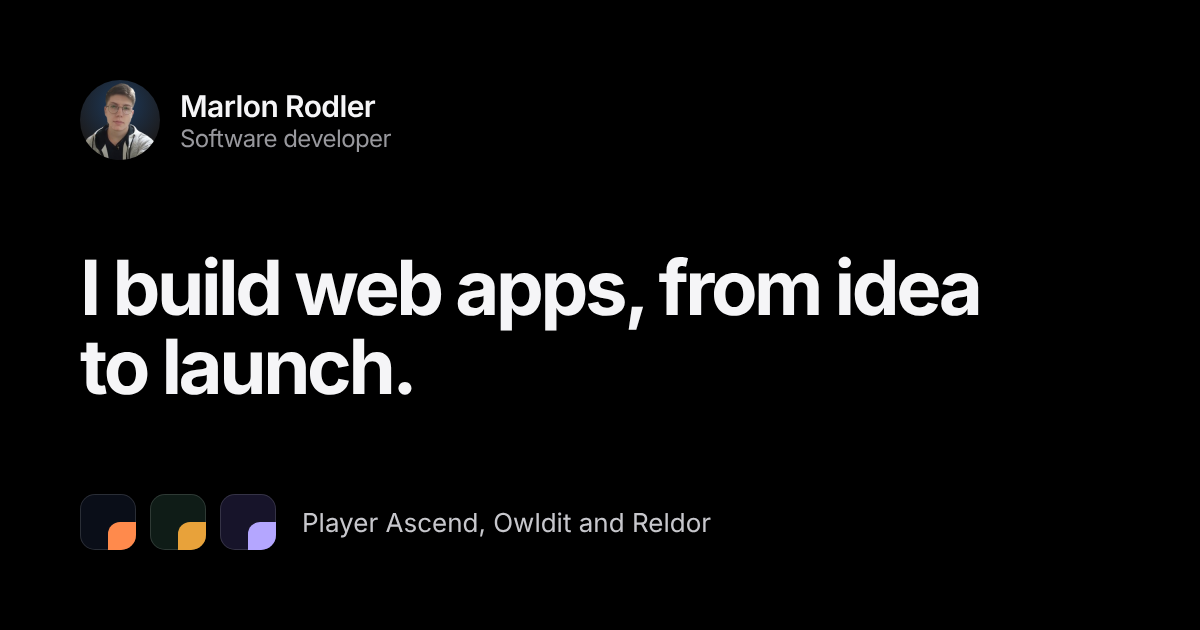
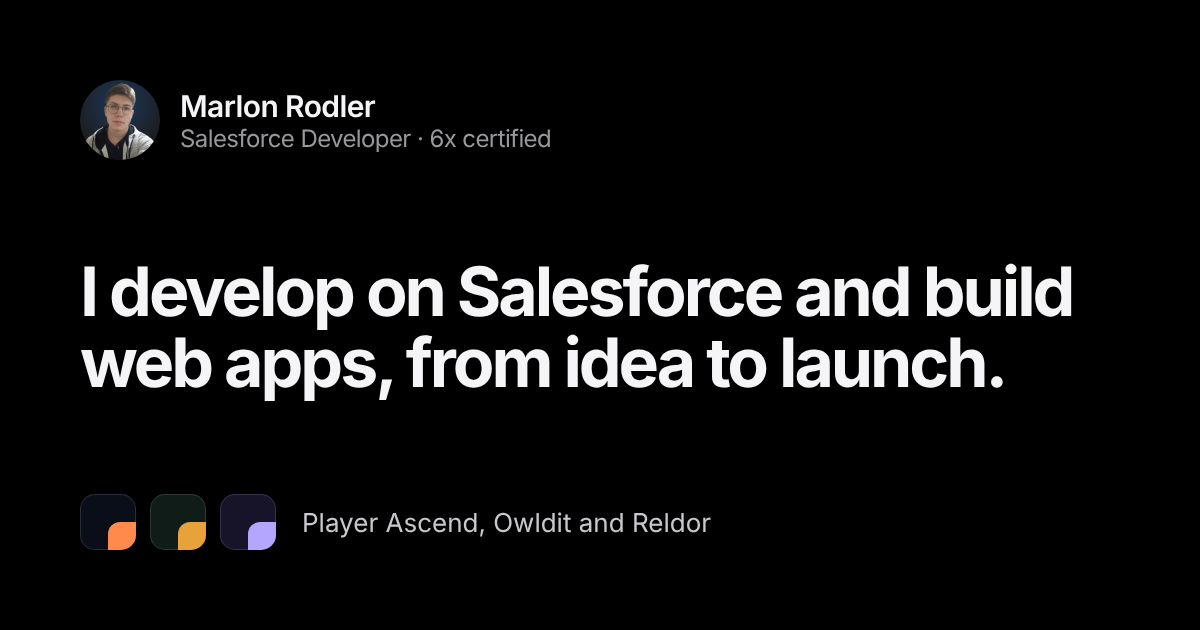
Experiência profissional, certificações e formação no portfólio
- Nova seção Experiência: Ília Digital, Nescara, C3C Software e SRVCloud,
  com o que foi feito em cada uma e as tecnologias
- 6 certificações Salesforce, link para o Trailblazer e formação
- Topo e Sobre reescritos a partir do resumo do LinkedIn: desenvolvedor
  Salesforce (Apex, LWC, Flow, integrações) que também cria aplicações web
- Versão em inglês atualizada; imagens de compartilhamento novas
- Menu compacto até 960px, para o topo com o link novo caber no tablet

Claude-Session: https://claude.ai/code/session_01Ba6k82qajC9v6rEK4Nmhgg

Changed region(s): [[0.0617, 0.3921, 0.8942, 0.6333], [0.1542, 0.2111, 0.4625, 0.2413]]

diff --git a/index.html b/index.html
@@ -3,8 +3,8 @@
 <head>
 <meta charset="utf-8">
 <meta name="viewport" content="width=device-width, initial-scale=1, viewport-fit=cover">
-<title>Marlon Rodler · Desenvolvedor de software</title>
-<meta name="description" content="Portfólio de Marlon Rodler, desenvolvedor de software. Aplicações web completas com React, Node.js e Supabase, e ferramentas para quem desenvolve em Salesforce.">
+<title>Marlon Rodler · Desenvolvedor Salesforce</title>
+<meta name="description" content="Portfólio de Marlon Rodler, desenvolvedor Salesforce com 6 certificações. Apex, LWC, Flow e integrações no trabalho; aplicações web completas com React, Node.js e Supabase nos projetos próprios.">
 <link rel="canonical" href="https://marlonrodler.github.io/">
 <link rel="alternate" hreflang="pt-BR" href="https://marlonrodler.github.io/">
 <link rel="alternate" hreflang="en" href="https://marlonrodler.github.io/en/">
@@ -14,8 +14,8 @@
 <meta name="theme-color" content="#000000" media="(prefers-color-scheme: dark)">
 <meta property="og:type" content="website">
 <meta property="og:locale" content="pt_BR">
-<meta property="og:title" content="Marlon Rodler · Desenvolvedor de software">
-<meta property="og:description" content="Portfólio de Marlon Rodler, desenvolvedor de software. Aplicações web completas com React, Node.js e Supabase, e ferramentas para quem desenvolve em Salesforce.">
+<meta property="og:title" content="Marlon Rodler · Desenvolvedor Salesforce">
+<meta property="og:description" content="Portfólio de Marlon Rodler, desenvolvedor Salesforce com 6 certificações. Apex, LWC, Flow e integrações no trabalho; aplicações web completas com React, Node.js e Supabase nos projetos próprios.">
 <meta property="og:url" content="https://marlonrodler.github.io/">
 <meta property="og:image" content="https://marlonrodler.github.io/assets/img/og.png">
 <meta property="og:image:width" content="1200">
@@ -27,7 +27,7 @@
 <script>try{var m=localStorage.getItem('theme');if(m==='light'||m==='dark')document.documentElement.dataset.theme=m}catch(_){}</script>
 <script>/* Na página padrão: vai para o idioma escolhido antes; na primeira visita, navegador fora do português vai para o inglês */try{var l=localStorage.getItem('lang'),p={"en":"/en/"};if(!l&&!/^pt/i.test(navigator.language||'')){l='en'}if(l&&p[l]&&!location.hash)location.replace(p[l])}catch(_){}</script>
 <link rel="stylesheet" href="/assets/site.css">
-<script type="application/ld+json">{"@context":"https://schema.org","@type":"Person","name":"Marlon Rodler","jobTitle":"Desenvolvedor de software","url":"https://marlonrodler.github.io/","sameAs":["https://github.com/marlonrodler","https://www.linkedin.com/in/marlonrodler/"]}</script>
+<script type="application/ld+json">{"@context":"https://schema.org","@type":"Person","name":"Marlon Rodler","jobTitle":"Desenvolvedor Salesforce · 6x certificado","url":"https://marlonrodler.github.io/","sameAs":["https://github.com/marlonrodler","https://www.linkedin.com/in/marlonrodler/"]}</script>
 </head>
 <body>
 <a class="skip" href="#conteudo">Pular para o conteúdo</a>
@@ -35,7 +35,7 @@
   <div class="wrap site-header__inner">
     <a class="brand" href="#topo">Marlon Rodler</a>
     <nav class="nav" id="nav" aria-label="Principal" data-nav>
-      <ul><li><a href="#projetos">Projetos</a></li><li><a href="#sobre">Sobre</a></li><li><a href="#contato">Contato</a></li></ul>
+      <ul><li><a href="#projetos">Projetos</a></li><li><a href="#experiencia">Experiência</a></li><li><a href="#sobre">Sobre</a></li><li><a href="#contato">Contato</a></li></ul>
       <div class="nav__theme">
         <span>Tema</span>
         <div class="seg" role="group" aria-label="Tema">
@@ -61,10 +61,10 @@
     <div class="hero__intro">
       <p class="hero__who">
         <img src="/assets/img/marlon-160.webp" width="160" height="160" alt="Foto de Marlon Rodler" fetchpriority="high">
-        <span><strong>Marlon Rodler</strong><span>Desenvolvedor de software</span></span>
+        <span><strong>Marlon Rodler</strong><span>Desenvolvedor Salesforce · 6x certificado</span></span>
       </p>
-      <h1 id="hero-title">Desenvolvo aplicações web, da ideia ao lançamento.</h1>
-      <p class="hero__lead">Entendo o problema, desenho as telas, monto o banco de dados e coloco no ar. No trabalho, desenvolvo em Salesforce. Nos meus projetos, uso React, Node.js e Supabase.</p>
+      <h1 id="hero-title">Desenvolvo em Salesforce e crio aplicações web, da ideia ao lançamento.</h1>
+      <p class="hero__lead">Há mais de 5 anos trabalho com a plataforma Salesforce, desenvolvendo com Apex, Lightning Web Components, Flow e integrações. Nos meus projetos, crio aplicações completas com React, Node.js e Supabase.</p>
       <div class="hero__actions">
         <a class="btn btn--filled btn--accent" href="#projetos">Ver projetos</a>
         <a class="btn btn--plain" href="#contato">Entrar em contato</a>
@@ -162,6 +162,62 @@
     </div>
   </section>
 
+  <section class="section" id="experiencia" aria-labelledby="experiencia-title">
+    <div class="wrap section__head">
+      <h2 id="experiencia-title">Experiência</h2>
+      <p>Mais de 5 anos desenvolvendo na plataforma Salesforce, em projetos para grandes clientes dos setores financeiro, varejo e industrial.</p>
+    </div>
+    <div class="wrap exp">
+      <ol class="timeline">
+        <li class="job job--current">
+          <p class="job__period">mai. 2024 – atual</p>
+          <div class="job__body">
+            <h3>Desenvolvedor Salesforce</h3>
+            <p class="job__company">Ília Digital</p>
+            <ul class="job__points"><li>Desenvolvo em Apex (triggers, batches, schedules e integrações) e crio componentes em Lightning Web Components.</li><li>Organizo o código com o framework fflib e os princípios SOLID, para facilitar a manutenção e os testes.</li><li>Cuido da modelagem de dados e da segurança, participo da definição de requisitos com o negócio e ajudo a espalhar boas práticas no time.</li></ul>
+            <ul class="tags"><li>Apex</li><li>LWC</li><li>fflib</li><li>SOLID</li><li>Integrações</li></ul>
+          </div>
+        </li><li class="job">
+          <p class="job__period">jan. 2022 – mai. 2024</p>
+          <div class="job__body">
+            <h3>Desenvolvedor Salesforce</h3>
+            <p class="job__company">Nescara</p>
+            <ul class="job__points"><li>Desenvolvi em Apex, com classes, triggers, batches, schedules e integrações.</li><li>Criei componentes em Aura e Lightning Web Components.</li><li>Fiz deploys em produção e versionei o trabalho com Salesforce DX e scratch orgs.</li></ul>
+            <ul class="tags"><li>Apex</li><li>Aura</li><li>LWC</li><li>Salesforce DX</li></ul>
+          </div>
+        </li><li class="job">
+          <p class="job__period">abr. 2021 – jan. 2022</p>
+          <div class="job__body">
+            <h3>Desenvolvedor Salesforce</h3>
+            <p class="job__company">C3C Software</p>
+            <ul class="job__points"><li>Desenvolvi em Apex com orientação a objetos e SOLID: triggers, batches, schedules e integrações.</li><li>Criei componentes em Aura e LWC e fiz deploys em produção.</li><li>Desenhei soluções técnicas, repassei para o time e treinei quem estava chegando.</li></ul>
+            <ul class="tags"><li>Apex</li><li>Aura</li><li>LWC</li></ul>
+          </div>
+        </li><li class="job">
+          <p class="job__period">ago. 2020 – mar. 2021</p>
+          <div class="job__body">
+            <h3>Desenvolvedor web back-end</h3>
+            <p class="job__company">SRVCloud</p>
+            <ul class="job__points"><li>Criei e mantive web services, com orientação a objetos e versionamento no Git.</li></ul>
+            <ul class="tags"><li>Web services</li><li>Git</li></ul>
+          </div>
+        </li>
+      </ol>
+      <aside class="creds">
+        <section class="cred" aria-labelledby="cert-title">
+          <h3 id="cert-title">6 certificações Salesforce</h3>
+          <ul class="cert-list"><li><svg class="icon" viewBox="0 0 24 24" width="20" height="20" fill="none" stroke="currentColor" stroke-width="1.6" stroke-linecap="round" stroke-linejoin="round" aria-hidden="true" focusable="false"><circle cx="12" cy="12" r="9"/><path d="M8 12.5l2.6 2.5L16 9.5"/></svg><span>Platform Developer II</span></li><li><svg class="icon" viewBox="0 0 24 24" width="20" height="20" fill="none" stroke="currentColor" stroke-width="1.6" stroke-linecap="round" stroke-linejoin="round" aria-hidden="true" focusable="false"><circle cx="12" cy="12" r="9"/><path d="M8 12.5l2.6 2.5L16 9.5"/></svg><span>Platform Developer I</span></li><li><svg class="icon" viewBox="0 0 24 24" width="20" height="20" fill="none" stroke="currentColor" stroke-width="1.6" stroke-linecap="round" stroke-linejoin="round" aria-hidden="true" focusable="false"><circle cx="12" cy="12" r="9"/><path d="M8 12.5l2.6 2.5L16 9.5"/></svg><span>JavaScript Developer I</span></li><li><svg class="icon" viewBox="0 0 24 24" width="20" height="20" fill="none" stroke="currentColor" stroke-width="1.6" stroke-linecap="round" stroke-linejoin="round" aria-hidden="true" focusable="false"><circle cx="12" cy="12" r="9"/><path d="M8 12.5l2.6 2.5L16 9.5"/></svg><span>Platform App Builder</span></li><li><svg class="icon" viewBox="0 0 24 24" width="20" height="20" fill="none" stroke="currentColor" stroke-width="1.6" stroke-linecap="round" stroke-linejoin="round" aria-hidden="true" focusable="false"><circle cx="12" cy="12" r="9"/><path d="M8 12.5l2.6 2.5L16 9.5"/></svg><span>Administrator</span></li><li><svg class="icon" viewBox="0 0 24 24" width="20" height="20" fill="none" stroke="currentColor" stroke-width="1.6" stroke-linecap="round" stroke-linejoin="round" aria-hidden="true" focusable="false"><circle cx="12" cy="12" r="9"/><path d="M8 12.5l2.6 2.5L16 9.5"/></svg><span>Associate</span></li></ul>
+          <p class="cred__note">Também: Scrum Foundation.</p>
+          <a class="link" href="https://trailblazer.me/id/marlonrodler" target="_blank" rel="noopener noreferrer">Ver no Trailblazer<svg class="icon" viewBox="0 0 24 24" width="20" height="20" fill="none" stroke="currentColor" stroke-width="1.6" stroke-linecap="round" stroke-linejoin="round" aria-hidden="true" focusable="false"><path d="M14 5h5v5"/><path d="M19 5l-8 8"/><path d="M17 14v4a1 1 0 0 1-1 1H6a1 1 0 0 1-1-1V8a1 1 0 0 1 1-1h4"/></svg><span class="sr-only"> (abre em nova aba)</span></a>
+        </section>
+        <section class="cred" aria-labelledby="edu-title">
+          <h3 id="edu-title">Formação</h3>
+          <ul class="edu-list"><li><strong>Tecnólogo em Análise e Desenvolvimento de Sistemas</strong><span>FATEC São Paulo · 2018 – 2021</span></li><li><strong>Formação Salesforce</strong><span>Pragma School · 2020 – 2021</span></li><li><strong>Técnico em Informática</strong><span>ETEC · 2017 – 2018</span></li></ul>
+        </section>
+      </aside>
+    </div>
+  </section>
+
   <section class="section" id="outros" aria-labelledby="outros-title">
     <div class="wrap section__head">
       <h2 id="outros-title">Outros projetos</h2>
@@ -206,13 +262,13 @@
   <section class="section wrap about" id="sobre" aria-labelledby="sobre-title">
     <div class="about__text">
       <h2 id="sobre-title">Sobre</h2>
-      <p>Sou desenvolvedor de software. No trabalho, desenvolvo em Salesforce: Apex, Lightning Web Components e o processo de entrega entre os ambientes.</p><p>Nas horas livres, crio meus próprios projetos do zero até o lançamento. Começo entendendo o problema de quem vai usar, desenho as telas, monto o banco de dados e publico. Cuido principalmente do que evita erro: regras que o próprio sistema confere, textos que explicam o próximo passo e telas que funcionam bem no celular.</p>
+      <p>Sou desenvolvedor Salesforce e crio soluções escaláveis com Apex, Lightning Web Components e integrações com sistemas externos, sempre pensando em desempenho, facilidade de manutenção e resultado para o negócio.</p><p>Tenho experiência em projetos complexos, com processamento assíncrono, modelagem de dados e integrações via API. Além do código, uso bastante as ferramentas low-code da plataforma, principalmente o Flow Builder, seguindo as boas práticas da Salesforce.</p><p>Nas horas livres, crio meus próprios projetos do zero até o lançamento: entendo o problema de quem vai usar, desenho as telas, monto o banco de dados e publico.</p>
     </div>
     <div class="about__skills">
       <h2 class="h3">Ferramentas que uso</h2>
       <p class="muted">Separadas pelo tipo de trabalho, com o projeto onde cada uma aparece.</p>
       <dl class="skills">
-        <div class="skill"><dt>Telas e interfaces</dt><dd><span>React, Vite, HTML e CSS com acessibilidade, PWA</span><small>Player Ascend e Owldit</small></dd></div><div class="skill"><dt>Banco de dados e servidor</dt><dd><span>Supabase (Postgres e login), Node.js, Web Push</span><small>Player Ascend, Owldit e Reldor</small></dd></div><div class="skill"><dt>Salesforce</dt><dd><span>Apex, Lightning Web Components, Salesforce CLI, fflib</span><small>No trabalho e no Reldor</small></dd></div><div class="skill"><dt>Qualidade e publicação</dt><dd><span>Git, GitHub Actions, Testes automatizados, Vercel, GitHub Pages</span><small>No Reldor e em todos os sites</small></dd></div>
+        <div class="skill"><dt>Telas e interfaces</dt><dd><span>React, Vite, HTML e CSS com acessibilidade, PWA</span><small>Player Ascend e Owldit</small></dd></div><div class="skill"><dt>Banco de dados e servidor</dt><dd><span>Supabase (Postgres e login), Node.js, Web Push</span><small>Player Ascend, Owldit e Reldor</small></dd></div><div class="skill"><dt>Salesforce</dt><dd><span>Apex, Lightning Web Components, Aura, SOQL, Flow Builder, Integrações via API, fflib, Salesforce DX e CLI</span><small>No trabalho e no Reldor</small></dd></div><div class="skill"><dt>Qualidade e publicação</dt><dd><span>Git, GitHub Actions, Testes automatizados, Vercel, GitHub Pages</span><small>No Reldor e em todos os sites</small></dd></div>
       </dl>
     </div>
   </section>

diff --git a/en/index.html b/en/index.html
@@ -3,8 +3,8 @@
 <head>
 <meta charset="utf-8">
 <meta name="viewport" content="width=device-width, initial-scale=1, viewport-fit=cover">
-<title>Marlon Rodler · Software developer</title>
-<meta name="description" content="Portfolio of Marlon Rodler, software developer. Complete web apps built with React, Node.js and Supabase, and tools for Salesforce developers.">
+<title>Marlon Rodler · Salesforce Developer</title>
+<meta name="description" content="Portfolio of Marlon Rodler, 6x certified Salesforce developer. Apex, LWC, Flow and integrations at work; complete web apps with React, Node.js and Supabase in personal projects.">
 <link rel="canonical" href="https://marlonrodler.github.io/en/">
 <link rel="alternate" hreflang="pt-BR" href="https://marlonrodler.github.io/">
 <link rel="alternate" hreflang="en" href="https://marlonrodler.github.io/en/">
@@ -14,8 +14,8 @@
 <meta name="theme-color" content="#000000" media="(prefers-color-scheme: dark)">
 <meta property="og:type" content="website">
 <meta property="og:locale" content="en">
-<meta property="og:title" content="Marlon Rodler · Software developer">
-<meta property="og:description" content="Portfolio of Marlon Rodler, software developer. Complete web apps built with React, Node.js and Supabase, and tools for Salesforce developers.">
+<meta property="og:title" content="Marlon Rodler · Salesforce Developer">
+<meta property="og:description" content="Portfolio of Marlon Rodler, 6x certified Salesforce developer. Apex, LWC, Flow and integrations at work; complete web apps with React, Node.js and Supabase in personal projects.">
 <meta property="og:url" content="https://marlonrodler.github.io/en/">
 <meta property="og:image" content="https://marlonrodler.github.io/assets/img/og-en.png">
 <meta property="og:image:width" content="1200">
@@ -27,7 +27,7 @@
 <script>try{var m=localStorage.getItem('theme');if(m==='light'||m==='dark')document.documentElement.dataset.theme=m}catch(_){}</script>
 
 <link rel="stylesheet" href="/assets/site.css">
-<script type="application/ld+json">{"@context":"https://schema.org","@type":"Person","name":"Marlon Rodler","jobTitle":"Software developer","url":"https://marlonrodler.github.io/en/","sameAs":["https://github.com/marlonrodler","https://www.linkedin.com/in/marlonrodler/"]}</script>
+<script type="application/ld+json">{"@context":"https://schema.org","@type":"Person","name":"Marlon Rodler","jobTitle":"Salesforce Developer · 6x certified","url":"https://marlonrodler.github.io/en/","sameAs":["https://github.com/marlonrodler","https://www.linkedin.com/in/marlonrodler/"]}</script>
 </head>
 <body>
 <a class="skip" href="#conteudo">Skip to content</a>
@@ -35,7 +35,7 @@
   <div class="wrap site-header__inner">
     <a class="brand" href="#topo">Marlon Rodler</a>
     <nav class="nav" id="nav" aria-label="Main" data-nav>
-      <ul><li><a href="#projetos">Projects</a></li><li><a href="#sobre">About</a></li><li><a href="#contato">Contact</a></li></ul>
+      <ul><li><a href="#projetos">Projects</a></li><li><a href="#experiencia">Experience</a></li><li><a href="#sobre">About</a></li><li><a href="#contato">Contact</a></li></ul>
       <div class="nav__theme">
         <span>Theme</span>
         <div class="seg" role="group" aria-label="Theme">
@@ -61,10 +61,10 @@
     <div class="hero__intro">
       <p class="hero__who">
         <img src="/assets/img/marlon-160.webp" width="160" height="160" alt="Photo of Marlon Rodler" fetchpriority="high">
-        <span><strong>Marlon Rodler</strong><span>Software developer</span></span>
+        <span><strong>Marlon Rodler</strong><span>Salesforce Developer · 6x certified</span></span>
       </p>
-      <h1 id="hero-title">I build web apps, from idea to launch.</h1>
-      <p class="hero__lead">I understand the problem, design the screens, set up the database and ship it. At work, I develop on Salesforce. In my own projects, I use React, Node.js and Supabase.</p>
+      <h1 id="hero-title">I develop on Salesforce and build web apps, from idea to launch.</h1>
+      <p class="hero__lead">For over 5 years I’ve worked on the Salesforce platform, building with Apex, Lightning Web Components, Flow and integrations. In my own projects, I build complete apps with React, Node.js and Supabase.</p>
       <div class="hero__actions">
         <a class="btn btn--filled btn--accent" href="#projetos">See projects</a>
         <a class="btn btn--plain" href="#contato">Get in touch</a>
@@ -162,6 +162,62 @@
     </div>
   </section>
 
+  <section class="section" id="experiencia" aria-labelledby="experiencia-title">
+    <div class="wrap section__head">
+      <h2 id="experiencia-title">Experience</h2>
+      <p>Over 5 years developing on the Salesforce platform, on projects for large clients in finance, retail and manufacturing.</p>
+    </div>
+    <div class="wrap exp">
+      <ol class="timeline">
+        <li class="job job--current">
+          <p class="job__period">May 2024 – present</p>
+          <div class="job__body">
+            <h3>Salesforce Developer</h3>
+            <p class="job__company">Ília Digital</p>
+            <ul class="job__points"><li>I develop in Apex (triggers, batches, schedules and integrations) and build Lightning Web Components.</li><li>I structure the code with the fflib framework and SOLID principles, to make it easier to maintain and test.</li><li>I handle data modeling and security, help define requirements with the business and spread good practices across the team.</li></ul>
+            <ul class="tags"><li>Apex</li><li>LWC</li><li>fflib</li><li>SOLID</li><li>Integrations</li></ul>
+          </div>
+        </li><li class="job">
+          <p class="job__period">Jan 2022 – May 2024</p>
+          <div class="job__body">
+            <h3>Salesforce Developer</h3>
+            <p class="job__company">Nescara</p>
+            <ul class="job__points"><li>Developed in Apex, with classes, triggers, batches, schedules and integrations.</li><li>Built components with Aura and Lightning Web Components.</li><li>Deployed to production and versioned work with Salesforce DX and scratch orgs.</li></ul>
+            <ul class="tags"><li>Apex</li><li>Aura</li><li>LWC</li><li>Salesforce DX</li></ul>
+          </div>
+        </li><li class="job">
+          <p class="job__period">Apr 2021 – Jan 2022</p>
+          <div class="job__body">
+            <h3>Salesforce Developer</h3>
+            <p class="job__company">C3C Software</p>
+            <ul class="job__points"><li>Developed in Apex with object-oriented design and SOLID: triggers, batches, schedules and integrations.</li><li>Built Aura and LWC components and deployed to production.</li><li>Designed technical solutions, handed them off to the team and onboarded new members.</li></ul>
+            <ul class="tags"><li>Apex</li><li>Aura</li><li>LWC</li></ul>
+          </div>
+        </li><li class="job">
+          <p class="job__period">Aug 2020 – Mar 2021</p>
+          <div class="job__body">
+            <h3>Back-end Web Developer</h3>
+            <p class="job__company">SRVCloud</p>
+            <ul class="job__points"><li>Built and maintained web services, with object-oriented design and Git version control.</li></ul>
+            <ul class="tags"><li>Web services</li><li>Git</li></ul>
+          </div>
+        </li>
+      </ol>
+      <aside class="creds">
+        <section class="cred" aria-labelledby="cert-title">
+          <h3 id="cert-title">6 Salesforce certifications</h3>
+          <ul class="cert-list"><li><svg class="icon" viewBox="0 0 24 24" width="20" height="20" fill="none" stroke="currentColor" stroke-width="1.6" stroke-linecap="round" stroke-linejoin="round" aria-hidden="true" focusable="false"><circle cx="12" cy="12" r="9"/><path d="M8 12.5l2.6 2.5L16 9.5"/></svg><span>Platform Developer II</span></li><li><svg class="icon" viewBox="0 0 24 24" width="20" height="20" fill="none" stroke="currentColor" stroke-width="1.6" stroke-linecap="round" stroke-linejoin="round" aria-hidden="true" focusable="false"><circle cx="12" cy="12" r="9"/><path d="M8 12.5l2.6 2.5L16 9.5"/></svg><span>Platform Developer I</span></li><li><svg class="icon" viewBox="0 0 24 24" width="20" height="20" fill="none" stroke="currentColor" stroke-width="1.6" stroke-linecap="round" stroke-linejoin="round" aria-hidden="true" focusable="false"><circle cx="12" cy="12" r="9"/><path d="M8 12.5l2.6 2.5L16 9.5"/></svg><span>JavaScript Developer I</span></li><li><svg class="icon" viewBox="0 0 24 24" width="20" height="20" fill="none" stroke="currentColor" stroke-width="1.6" stroke-linecap="round" stroke-linejoin="round" aria-hidden="true" focusable="false"><circle cx="12" cy="12" r="9"/><path d="M8 12.5l2.6 2.5L16 9.5"/></svg><span>Platform App Builder</span></li><li><svg class="icon" viewBox="0 0 24 24" width="20" height="20" fill="none" stroke="currentColor" stroke-width="1.6" stroke-linecap="round" stroke-linejoin="round" aria-hidden="true" focusable="false"><circle cx="12" cy="12" r="9"/><path d="M8 12.5l2.6 2.5L16 9.5"/></svg><span>Administrator</span></li><li><svg class="icon" viewBox="0 0 24 24" width="20" height="20" fill="none" stroke="currentColor" stroke-width="1.6" stroke-linecap="round" stroke-linejoin="round" aria-hidden="true" focusable="false"><circle cx="12" cy="12" r="9"/><path d="M8 12.5l2.6 2.5L16 9.5"/></svg><span>Associate</span></li></ul>
+          <p class="cred__note">Also: Scrum Foundation.</p>
+          <a class="link" href="https://trailblazer.me/id/marlonrodler" target="_blank" rel="noopener noreferrer">See on Trailblazer<svg class="icon" viewBox="0 0 24 24" width="20" height="20" fill="none" stroke="currentColor" stroke-width="1.6" stroke-linecap="round" stroke-linejoin="round" aria-hidden="true" focusable="false"><path d="M14 5h5v5"/><path d="M19 5l-8 8"/><path d="M17 14v4a1 1 0 0 1-1 1H6a1 1 0 0 1-1-1V8a1 1 0 0 1 1-1h4"/></svg><span class="sr-only"> (opens in a new tab)</span></a>
+        </section>
+        <section class="cred" aria-labelledby="edu-title">
+          <h3 id="edu-title">Education</h3>
+          <ul class="edu-list"><li><strong>Associate degree in Systems Analysis and Development</strong><span>FATEC São Paulo · 2018 – 2021</span></li><li><strong>Salesforce training</strong><span>Pragma School · 2020 – 2021</span></li><li><strong>IT technical high school</strong><span>ETEC · 2017 – 2018</span></li></ul>
+        </section>
+      </aside>
+    </div>
+  </section>
+
   <section class="section" id="outros" aria-labelledby="outros-title">
     <div class="wrap section__head">
       <h2 id="outros-title">Other projects</h2>
@@ -206,13 +262,13 @@
   <section class="section wrap about" id="sobre" aria-labelledby="sobre-title">
     <div class="about__text">
       <h2 id="sobre-title">About</h2>
-      <p>I’m a software developer. At work, I develop on Salesforce: Apex, Lightning Web Components and the delivery process between environments.</p><p>In my free time, I build my own projects from scratch to launch. I start by understanding the problem of the people who will use it, then design the screens, set up the database and ship. I pay special attention to what prevents mistakes: rules the system checks on its own, text that explains the next step, and screens that work well on a phone.</p>
+      <p>I’m a Salesforce developer who builds scalable solutions with Apex, Lightning Web Components and integrations with external systems, always focused on performance, maintainability and real business impact.</p><p>I’ve worked on complex projects involving asynchronous processing, data modeling and API integrations. Beyond code, I make heavy use of the platform’s low-code tools, especially Flow Builder, following Salesforce best practices.</p><p>In my free time, I build my own projects from scratch to launch: I understand the problem of the people who will use it, design the screens, set up the database and ship.</p>
     </div>
     <div class="about__skills">
       <h2 class="h3">Tools I use</h2>
       <p class="muted">Grouped by kind of work, with the project where each one shows up.</p>
       <dl class="skills">
-        <div class="skill"><dt>Screens and interfaces</dt><dd><span>React, Vite, Accessible HTML and CSS, PWA</span><small>Player Ascend and Owldit</small></dd></div><div class="skill"><dt>Database and server</dt><dd><span>Supabase (Postgres and auth), Node.js, Web Push</span><small>Player Ascend, Owldit and Reldor</small></dd></div><div class="skill"><dt>Salesforce</dt><dd><span>Apex, Lightning Web Components, Salesforce CLI, fflib</span><small>At work and in Reldor</small></dd></div><div class="skill"><dt>Quality and deployment</dt><dd><span>Git, GitHub Actions, Automated tests, Vercel, GitHub Pages</span><small>Reldor and every site</small></dd></div>
+        <div class="skill"><dt>Screens and interfaces</dt><dd><span>React, Vite, Accessible HTML and CSS, PWA</span><small>Player Ascend and Owldit</small></dd></div><div class="skill"><dt>Database and server</dt><dd><span>Supabase (Postgres and auth), Node.js, Web Push</span><small>Player Ascend, Owldit and Reldor</small></dd></div><div class="skill"><dt>Salesforce</dt><dd><span>Apex, Lightning Web Components, Aura, SOQL, Flow Builder, API integrations, fflib, Salesforce DX and CLI</span><small>At work and in Reldor</small></dd></div><div class="skill"><dt>Quality and deployment</dt><dd><span>Git, GitHub Actions, Automated tests, Vercel, GitHub Pages</span><small>Reldor and every site</small></dd></div>
       </dl>
     </div>
   </section>

diff --git a/assets/site.css b/assets/site.css
@@ -191,7 +191,7 @@ main:focus { outline: none; }
 .nav-toggle { display: none; }
 .nav-toggle__close { display: none; }
 
-@media (max-width: 759px) {
+@media (max-width: 959px) {
   .site-header__inner { gap: var(--s-2); }
   .nav-toggle { display: inline-grid; }
   .site-header__tools { margin-left: auto; }
@@ -211,7 +211,7 @@ main:focus { outline: none; }
   .nav__theme { display: flex; align-items: center; justify-content: space-between; min-height: 56px; color: var(--ink); font-size: var(--step-1); }
   .nav__theme .seg__btn { width: 44px; height: 36px; }
 }
-@media (min-width: 760px) { .nav__theme { display: none; } }
+@media (min-width: 960px) { .nav__theme { display: none; } }
 
 /* ---------- 5. Seções ---------- */
 
@@ -235,7 +235,7 @@ main:focus { outline: none; }
 .hero h1 {
   font-size: var(--step-4); font-weight: 700;
   line-height: 1.04; letter-spacing: -0.045em;
-  max-width: 13ch;
+  max-width: 17ch;
 }
 .hero__lead { margin-top: var(--s-5); max-width: 36rem; font-size: var(--step-1); line-height: 1.45; color: var(--ink-2); letter-spacing: -0.016em; }
 .hero__actions { display: flex; flex-wrap: wrap; align-items: center; gap: var(--s-2) var(--s-3); margin-top: var(--s-6); }
@@ -346,6 +346,40 @@ main:focus { outline: none; }
 .terminal__flow .flow--back b { color: #8be0c0; }
 .terminal__flow .flow--you { color: #fff; font-weight: 600; }
 .media--terminal figcaption { margin-top: var(--s-4); color: var(--p-ink-3); font-size: 0.9375rem; }
+
+/* ---------- Experiência ---------- */
+.exp { display: grid; gap: var(--s-7); }
+@media (min-width: 960px) { .exp { grid-template-columns: minmax(0, 7fr) minmax(0, 4fr); gap: var(--s-8); align-items: start; } }
+@media (min-width: 960px) { .creds { position: sticky; top: 88px; } }
+.timeline { position: relative; display: grid; gap: var(--s-6); }
+.timeline::before { content: ""; position: absolute; left: 5px; top: 8px; bottom: 8px; width: 2px; border-radius: 1px; background: var(--line); }
+.job { position: relative; display: grid; gap: var(--s-2); padding-left: var(--s-6); }
+@media (min-width: 640px) { .job { grid-template-columns: 9.5rem minmax(0, 1fr); gap: var(--s-5); } }
+.job::before {
+  content: ""; position: absolute; left: 0; top: 6px; width: 12px; height: 12px; border-radius: 50%;
+  background: var(--bg); box-shadow: inset 0 0 0 2px var(--ink-3);
+}
+.job--current::before { background: var(--accent); box-shadow: 0 0 0 4px color-mix(in srgb, var(--accent) 22%, transparent); }
+.job__period { color: var(--ink-3); font-size: 0.9375rem; font-variant-numeric: tabular-nums; padding-top: 1px; }
+.job--current .job__period { color: var(--accent); font-weight: 600; }
+.job__body { display: grid; gap: var(--s-2); min-width: 0; }
+.job h3 { font-size: var(--step-1); font-weight: 600; letter-spacing: -0.02em; }
+.job__company { color: var(--ink-2); margin-top: -4px; }
+.job__points { display: grid; gap: var(--s-2); margin: var(--s-1) 0 var(--s-2); }
+.job__points li { position: relative; padding-left: 16px; color: var(--ink-2); }
+.job__points li::before { content: ""; position: absolute; left: 0; top: 0.68em; width: 6px; height: 2px; border-radius: 1px; background: var(--ink-3); }
+
+.creds { display: grid; gap: var(--s-4); }
+.cred { padding: var(--s-5); border-radius: 20px; background: var(--bg-2); display: grid; gap: var(--s-3); align-content: start; }
+.cred h3 { font-size: var(--step-1); font-weight: 600; letter-spacing: -0.02em; }
+.cert-list { display: grid; gap: var(--s-2); }
+.cert-list li { display: flex; align-items: center; gap: var(--s-2); }
+.cert-list .icon { width: 20px; height: 20px; color: var(--accent); }
+.cred__note { color: var(--ink-3); font-size: 0.9375rem; }
+.edu-list { display: grid; gap: var(--s-3); }
+.edu-list li { display: grid; gap: 2px; }
+.edu-list strong { font-weight: 600; }
+.edu-list span { color: var(--ink-3); font-size: 0.9375rem; }
 
 /* ---------- Outros projetos ---------- */
 .others { display: grid; gap: var(--s-5); grid-template-columns: minmax(0, 1fr); }

diff --git a/assets/site.js b/assets/site.js
@@ -33,7 +33,7 @@
   document.addEventListener('keydown', (ev) => {
     if (ev.key === 'Escape' && root.classList.contains('nav-open')) { setOpen(false); toggle.focus(); }
   });
-  matchMedia('(min-width: 760px)').addEventListener('change', (m) => { if (m.matches) setOpen(false); });
+  matchMedia('(min-width: 960px)').addEventListener('change', (m) => { if (m.matches) setOpen(false); });
 
   // Linha sob o cabeçalho só depois de rolar
   const header = document.querySelector('[data-header]');
